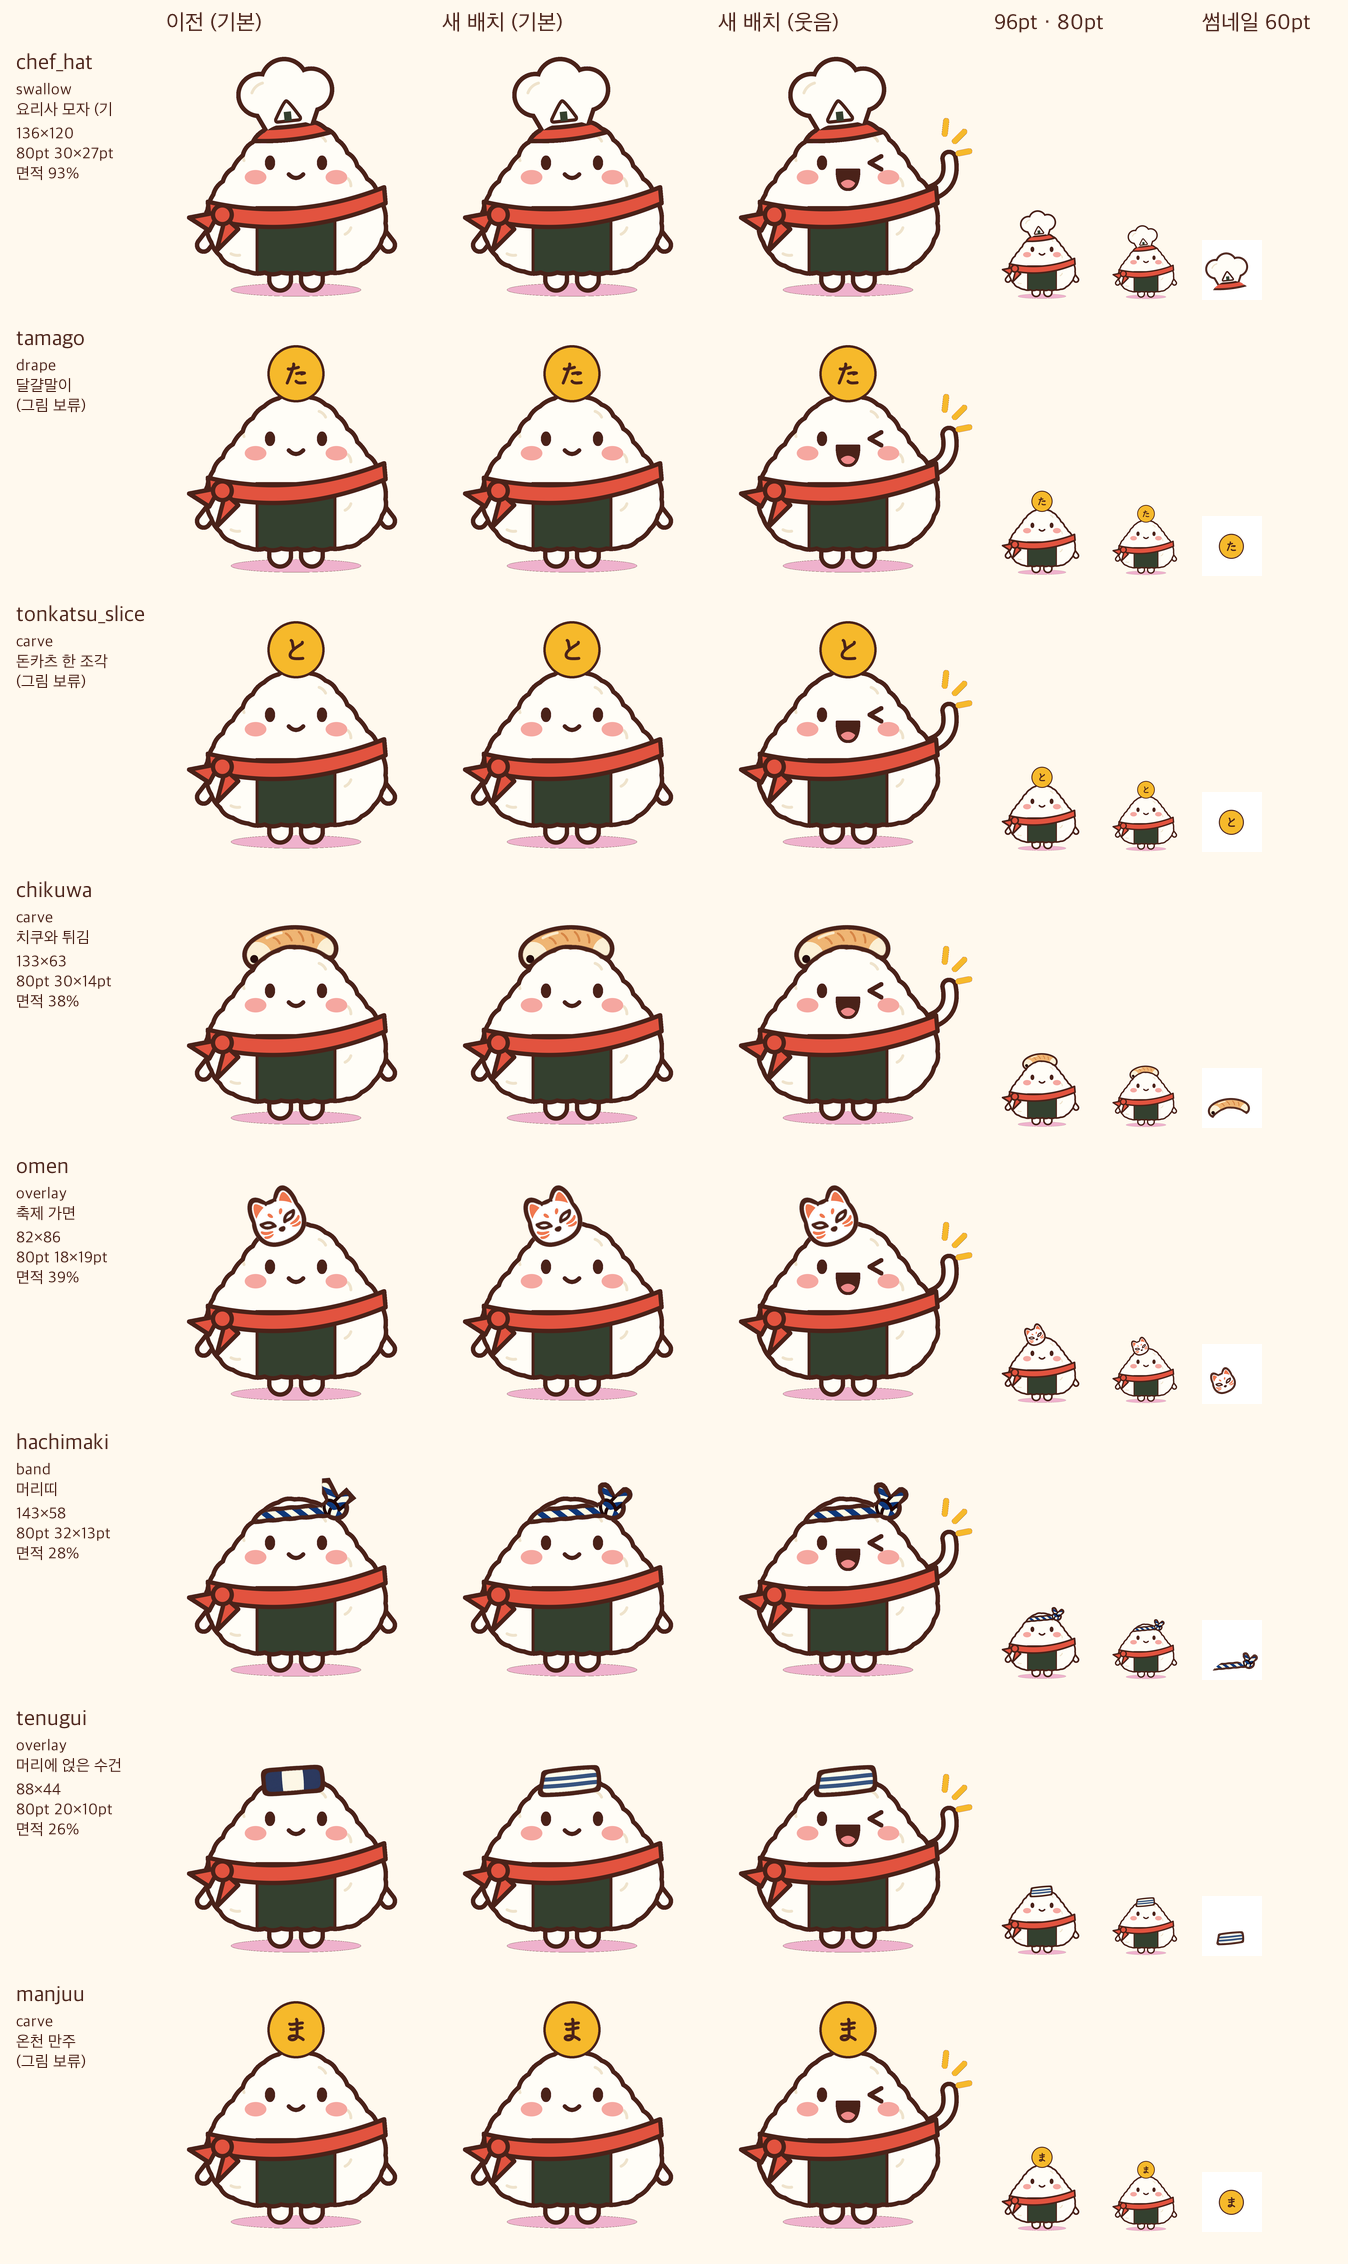
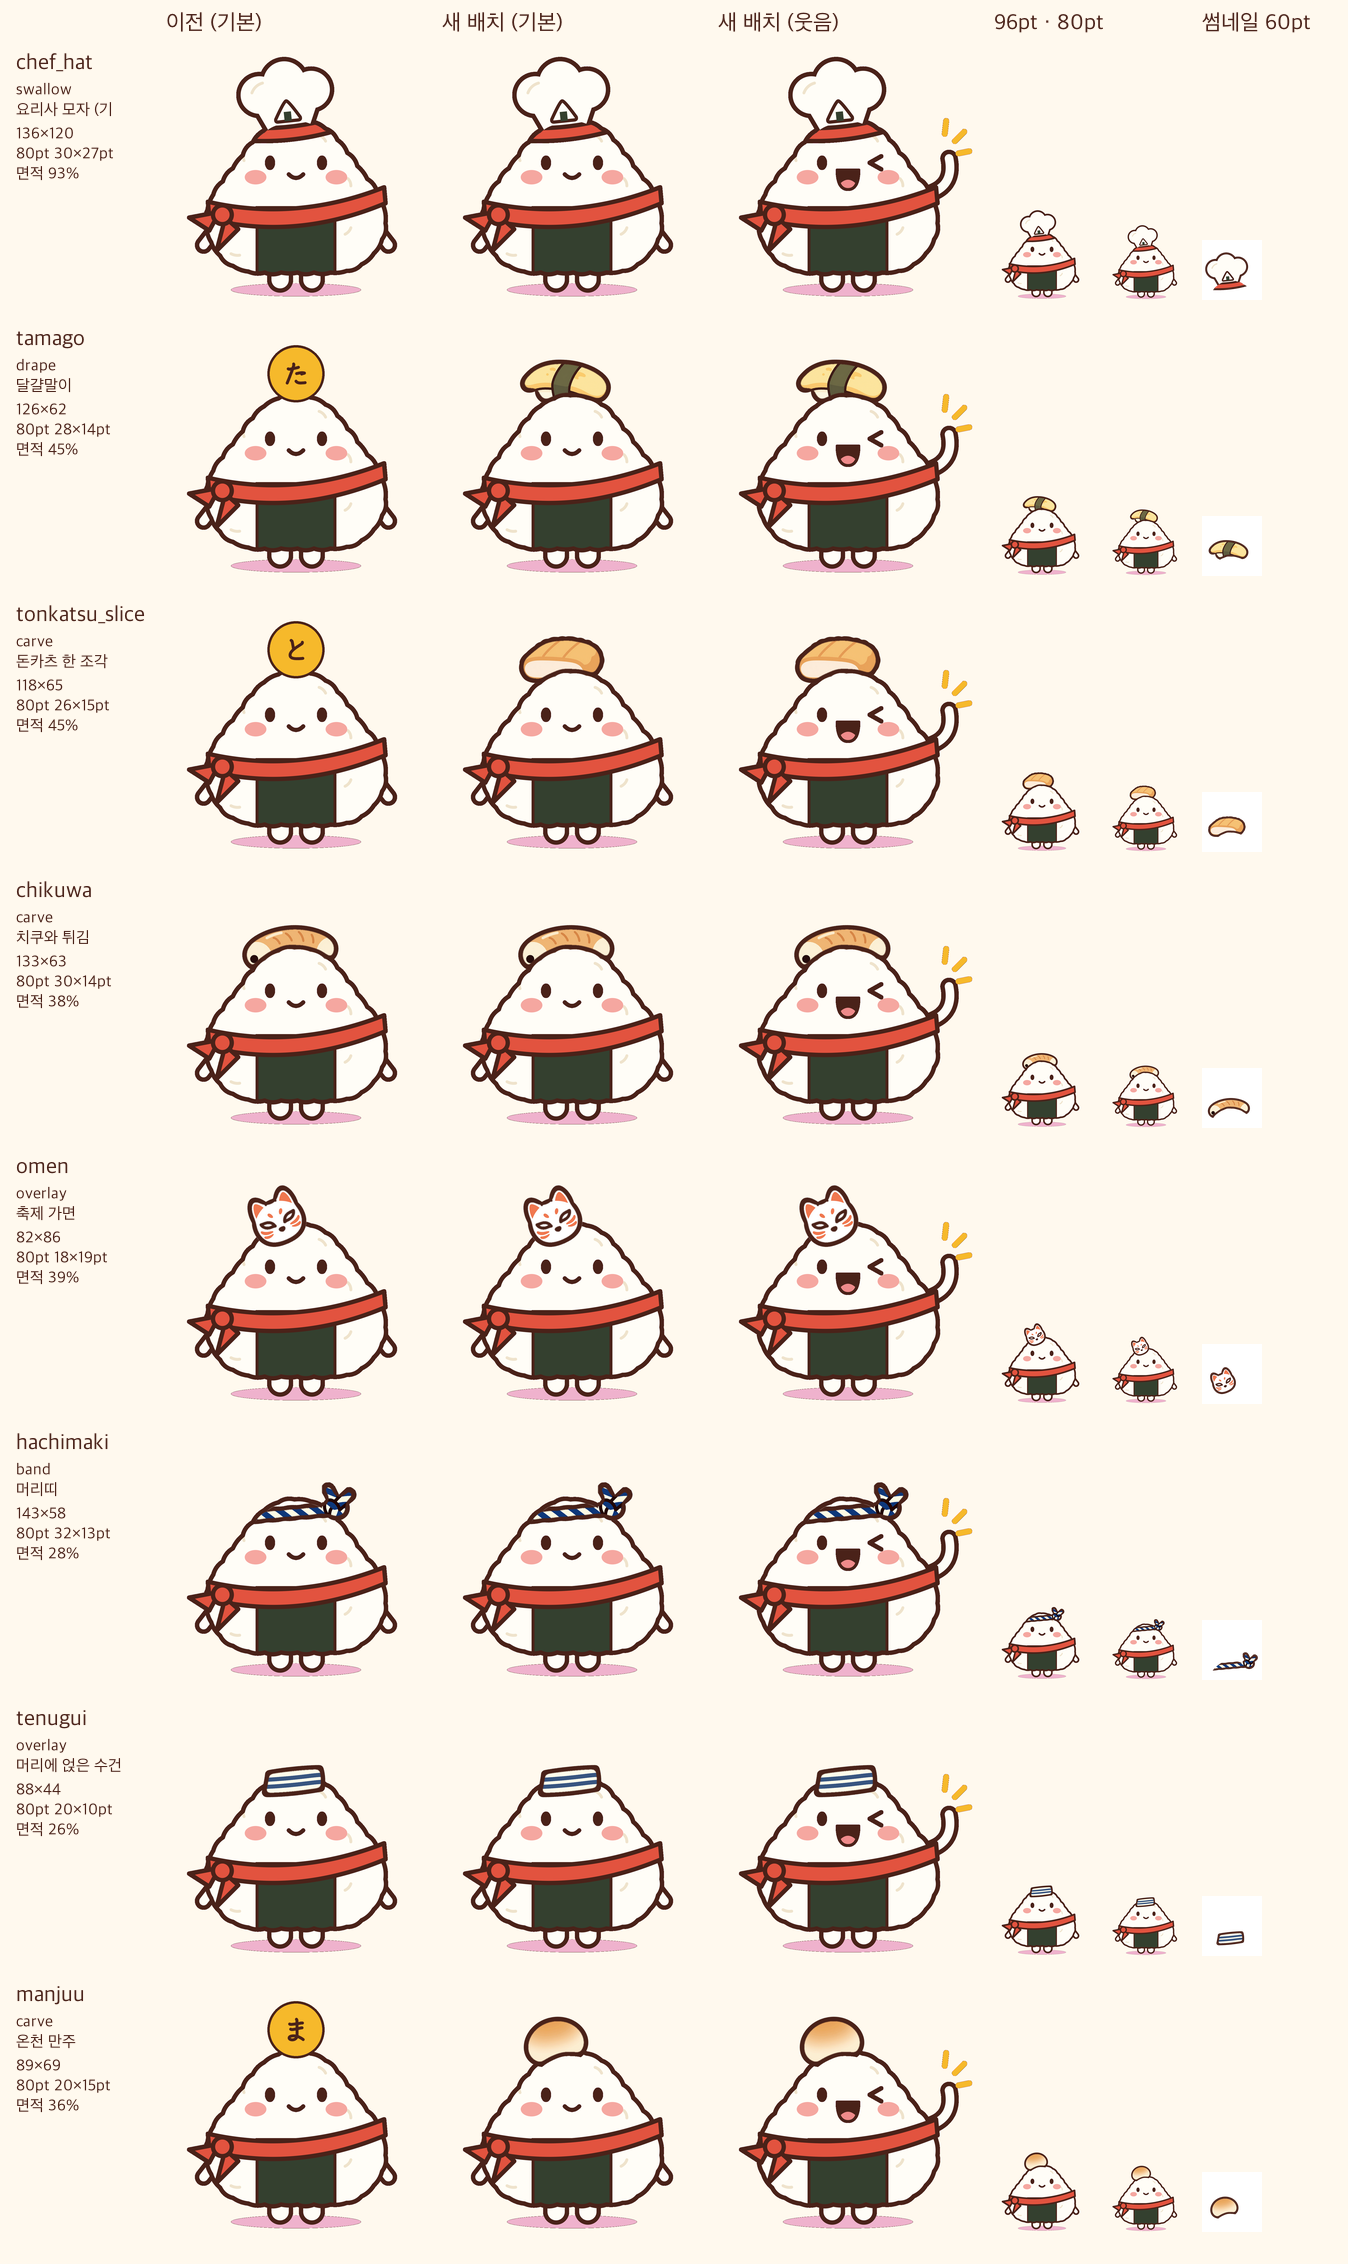
머리 음식 3개(tamago·tonkatsu_slice·manjuu)에 사용자가 고른 후보 5501을 넣음 (이슈 #1)
- source/{id}.png: remove_bg.py로 바탕 지움, manjuu는 --outline으로 흰 테 지움
- items.json: box·press 다시 정함(150x70/19, 140x70/20, 90x70/18), manjuu sizeClass round,
  candidate, waive(2026-11-21 사용자 결정): D_e 세 아이템, 닿는 폭 tamago
- place_item_art.py: 아이템별 waive 면제 표시(종료 코드에서 뺌, 다른 아이템 검사는 그대로)
- 에셋 Item-/ItemThumb- 3쌍, head-fit-compare.png 다시 만듦
- head-fit.md 3.4.3, 변경 기록, schedule.md 보류 작업 줄 정리

diff --git a/tools/place_item_art.py b/tools/place_item_art.py
@@ -20,6 +20,8 @@
 3. 검사해 출력한다. 머리: 2.1.3 범위 밖 픽셀, 기본 모자 대비 면적, 채움 색 수(근사), 떨어진 조각 수, 금지 색.
    속재료: 2.3.2 범위 밖 픽셀, 보이는 면적(모자 대비), 보이는 비율(뒤), 빨강 계열이면 보이는 부분 아래 끝 y, 채움 색 수,
    떨어진 조각 수, 금지 색. 기준을 넘으면 줄 끝에 "← 확인"을 붙이고 종료 코드 1을 돌려준다(에셋은 쓴다).
+   아이템의 `waive` {"reason": 사유, "checks": [검사 줄 머리말, ...]}에 든 검사는 넘어도 "← 면제: 사유"로 적고
+   종료 코드에 넣지 않는다(사용자가 정한 아이템만. 다른 아이템과 다른 검사는 그대로 돈다).
 
 필요: Pillow (tools/requirements.txt). 기본 모자 면적과 몸 마스크는 make_onigiri_svg.py의 그림을
 tools/svg_to_png.swift(macOS AppKit)로 그려 센다.
@@ -1239,11 +1241,18 @@ def main() -> int:
             checks = check_top(item, results[iid]) + checks
         elif item["slot"] == "filling":
             checks = check_filling(item, results[iid]) + checks
-        bad = [text for text, ok in checks if not ok]
+        waive = item.get("waive") or {}
+        waived = lambda text: any(text.startswith(k) for k in waive.get("checks", []))  # noqa: E731
+        bad = [text for text, ok in checks if not ok and not waived(text)]
         failed = failed or bool(bad)
         print(f"{iid:15} {item['slot']:10} " + ("검사만" if check_only else "→ " + ", ".join(ios_name(f) for f in results)))
         for text, ok in checks:
-            print(f"    {text}" + ("" if ok else "  ← 확인"))
+            if ok:
+                print(f"    {text}" + ("  (면제 표시가 있지만 통과)" if waived(text) else ""))
+            elif waived(text):
+                print(f"    {text}  ← 면제: {waive.get('reason', '사유 없음')}")
+            else:
+                print(f"    {text}  ← 확인")
     return 1 if failed else 0
 
 

diff --git a/docs/design/item-art/head-fit.md b/docs/design/item-art/head-fit.md
@@ -635,6 +635,23 @@ brief.md 2.5.1과 reward-flow.md 8.1의 7층 그대로다: 배경 → 속재료(
 - `items.json`의 프롬프트는 아이템마다 가장 나은 후보를 낸 문장으로 두었다: tamago·tonkatsu_slice는 2차, manjuu는 1차 문장.
 - 놓는 값(dx, 기울기, 상자, 눌러 놓기)과 30% 한도는 바꾸지 않았다. tonkatsu 5604에서 dx −6~−14, 기울기 −6°~−10°, `squash`를 시험해 본 것은 판정용이고 `items.json`에 넣지 않았다.
 
+#### 3.4.3 고른 후보 넣기 (2026-11-21, developer, 2026-11-21 사용자 결정(이슈 #1))
+
+사용자가 이슈 #1에서 후보 시트를 보고 세 아이템 모두 **5501**을 골랐다("타마고는 5501, 돈카츠는 5501 만쥬도 5501"). 세 후보는 자동 검사에 걸리지만 **이 세 아이템에 한해 사용자 결정으로 면제**한다. 규칙 문장(1.3, 1.4.3, 1.4.4, 5번)은 그대로이고, 다른 아이템의 검사도 그대로 돈다.
+
+- 그림: `source/candidates/{id}_5501.png`에서 `remove_bg.py`로 바탕을 지워 `source/{id}.png`로 넣었다. manjuu는 흰 스티커 테가 있어 `--outline`을 붙였다. 그림을 다시 그리거나 손으로 고치지 않았다. `items.json`의 `prompt`는 5501을 낸 문장(1차)으로, 고른 후보 번호는 `candidate`에 적었다.
+- 면제 방식: `items.json`의 아이템별 `waive` {`reason`, `checks`(검사 줄 머리말)}. 넣는 도구는 면제한 검사가 넘으면 "← 면제: 2026-11-21 사용자 결정(이슈 #1)"으로 적고 종료 코드에 넣지 않는다. tenugui의 겹침 70.5% 같은 다른 아이템 검사는 여전히 "← 확인"이다.
+- 3.4.1의 놓는 값(상자 144 × 60 / 124 × 60 / 76 × 60, 눌러 놓기 auto)으로는 세 그림 모두 바닥이 평평해서 30까지 눌려 깊이 깎였다. tamago는 밑의 밥이, tonkatsu는 앞쪽 단면이 거의 다 지워졌고, manjuu는 초승달 모자가 됐다(깎인 높이 47% · 46% · 37%, 보이는 크기도 하한 미달). 그래서 상자를 키우고 눌러 놓기를 수로 정해, 그림의 알아볼 부분(밥, 단면)이 남으면서 머리 위에 앉아 보이는 깊이를 눈으로 골랐다. dx·기울기는 3.4 그대로다.
+
+| id | 고른 후보 | 놓는 값 | 보이는 크기 · 80pt · 면적 | 통과한 검사 | 면제한 검사 (수치 / 기준) |
+|---|---|---|---|---|---|
+| `tamago` | 5501 (김 띠 두른 달걀 초밥, 밥이 보임) | drape, dx −6, −5°, **box 150 × 70, press 19**, contactSpan 1.0 | 126 × 62 (51%) · 28.0 × 13.8pt · 45% | 틈 5열, D_c 1, 깎인 높이 24%, 접선 차 0.2°, 얼굴 띠 122, 크기 하한, 범위·상한·색·덩어리 | **D_e 12·10 / 각 20~40**, **닿는 폭 66% / 75% 이상** |
+| `tonkatsu_slice` | 5501 (바닥이 평평한 덩이, 앞쪽 옅은 단면) | carve, dx −10, −8°, **box 140 × 70, press 20**, contactSpan 0.8 | 118 × 65 (48%) · 26.3 × 14.5pt · 45% | 틈 6열, D_c 1, 닿는 폭 73%, 깎인 높이 22%, 접선 차 0°, 얼굴 띠 126, 크기 하한 | **D_e 16·9 평균 12.5 / 평균 21 이상** |
+| `manjuu` | 5501 (둥근 빵, 위가 갈색 그러데이션, 흰 테 지움) | carve e 4, dx −16, −12°, **box 90 × 70, press 18**, contactSpan 0.8, **`sizeClass` "round"** | 89 × 69 (36%) · 19.9 × 15.4pt · 36% | 틈 4열, D_c 7, 닿는 폭 82%, 깎인 높이 17%, 접선 차 0.8°, 얼굴 띠 131, 크기 하한(둥근 것), 채움 색 3 | **D_e 20·4 평균 12 / 평균 21 이상**(폭 89라 80 초과 기준) |
+
+- manjuu는 1.9.2의 "폭 80 이하로 높이만 키움"을 따르면(90 → 80) 보이는 면적이 28% 하한에 걸리고 오른쪽 D_e가 3(각 4 이상)이라, 폭 89로 키워 D_e만 면제로 두었다. `sizeClass` "round"는 1.9.3의 `carve` 둥근 것 하한을 쓰게 하려고 더했다(전에는 긴 것 하한으로 쟀다).
+- 남은 위험: 세 그림 모두 바닥이 평평해서 가운데만 머리에 앉고 양 끝은 머리와 떨어진다(D_e가 낮은 까닭). tamago의 오른쪽 끝은 머리 오른쪽 어깨 위로 뜬 쐐기가 있다. 비교 시트·시뮬레이터 스크린샷 `build/head-fit-shots/r5/`(git 밖).
+
 ### 3.5 `tenugui` 머리에 얹은 수건: 시점 불일치와 모양
 
 지금 상태: 위에서 비스듬히 본 두께 있는 판(원근)이고, 마름모 모서리 한 점으로 꼭짓점에 닿는다(위험 C, G).
@@ -952,3 +969,4 @@ brief.md 2.5.1과 reward-flow.md 8.1의 7층 그대로다: 배경 → 속재료(
 - 2026-11-18 (developer): 3차 수정 구현. 3번에 "3차 수정 구현 값" 표와 메모, 6.6에 진행 상황. tenugui는 새 그림 7831(90 × 40, center (146, 118), −6°, squash 없음, 겹침 70.5%만 걸림). はちまき는 6장 다시 그림이 모두 떨어져 7753에 꼬리 반원 자르기(22·18)만 한 임시. 7753의 윗 꼬리가 왼쪽으로 기울어 있어(2차 메모의 20°는 방향이 반대) 3차 각도 범위를 벗어나고, `tailRotate`로는 꼬리가 뭉쳐 쓰지 않았다. `remove_bg.py --outline`(흰 스티커 테 지우기)을 더했다.
 - 2026-11-19 (developer): 앱 아이콘을 새 요리사 모자 `hat()`으로 바꿈(이슈 #5). `hat_icon()` 삭제, 아이콘 배치 3.0배·위아래 여백 약 56px. 3.1 끝의 아이콘 줄 갱신.
 - 2026-11-19 (developer): 3.4.2 추가. tamago·tonkatsu_slice·manjuu를 아이템당 8장 더 뽑았으나 통과 없음(앱은 임시 동그라미 그대로). 프롬프트를 `items.json`에 반영.
+- 2026-11-21 (developer): 3.4.3 추가. 2026-11-21 사용자 결정(이슈 #1)으로 tamago·tonkatsu_slice·manjuu에 후보 5501을 넣었다(앱의 임시 동그라미가 그림으로 바뀜). 상자·눌러 놓기를 다시 정하고, 걸리는 D_e(세 아이템)와 닿는 폭(tamago)을 `items.json`의 `waive`로 면제했다. 넣는 도구에 아이템별 면제 표시를 더했다. 비교 시트를 다시 만들었다.

diff --git a/docs/schedule.md b/docs/schedule.md
@@ -8,5 +8,4 @@ PM(메인 세션)이 관리한다. 기획 결정과 미정 항목은 [PLAN.md](.
 
 | 올린 날 | 작업 | 미룬 이유 | 다시 할 조건 | 참고 |
 |---|---|---|---|---|
-| 2026-11-16 | 꾸미기 머리 토핑 그림 3장: tamago, tonkatsu_slice, manjuu. 앱에는 임시 동그라미가 들어가 있다. (같은 줄의 chikuwa, ebiten, shake, umeboshi는 2026-11-17에 끝남) | 2026-11-17에 아이템마다 3장, 2026-11-19(이슈 #1로 제한을 풀고)에 8장씩 더 뽑았으나 통과가 없다. tamago는 니기리 초밥(밥 포함)이나 공을 함께 그렸고, tonkatsu는 평평한 빵 모양이거나 머리보다 깊은 말굽 아치(가운데가 뜸), manjuu는 바닥이 평평한 둥근 빵(깎인 높이 34~40%)이거나 공을 그렸다. 문장 실험 기록은 head-fit.md 3.4.2 | 문장만으로는 더 나아질 근거가 약하다. 다음 중 하나가 생길 때: 사용자가 아치 형태 손그림·참고 그림을 줄 때(이미지 참고를 받는 작업 흐름이 필요), 또는 사용자가 다른 방법(예: 30% 한도나 접시 없이 깎아 얹기 규칙 재검토, 공을 erase로 지운 후보 쓰기)을 정할 때 | 프롬프트: items.json(tamago·tonkatsu_slice 2차, manjuu 1차 문장). 가장 나은 후보: source/candidates/tamago_5604, tonkatsu_slice_5604, manjuu_5504(git 밖). 모음: build/head-fit-shots/r4/candidates-r4.png. 놓는 값: head-fit.md 3.4 |
 | 2026-11-18 | はちまき 다시 그리기(3.2.2: 열린 곧은 줄, 줄보다 1.3~1.8배 굵은 둥근 매듭, 매듭보다 짧은 두 꼬리가 오른쪽 위·오른쪽). 지금 그림은 임시: 후보 7753의 꼬리를 반원 자르기(`tailTrim` 윗 22·아랫 18)로 손질. 자동 검사는 모두 통과하지만 80pt에서 두 꼬리가 V(토끼 귀)로 읽히고, 윗 꼬리가 왼쪽으로 29° 기울어 3차 각도 범위(윗 15~40°)를 벗어난다 | 2026-11-18 3.2.2 프롬프트로 6장(7861~7863, 앞에 "It is an open strip, not a ring."을 더한 7871~7873): 5장이 닫힌 고리, 1장은 매듭이 가늘고 꼬리 하나가 아래로. `tailRotate`로 윗 꼬리를 돌리면 오른쪽 꼬리와 뭉쳤다 | 사용자가 지금 임시를 받아들일지 정할 때. 다시 뽑으면 아이템당 횟수 제한(6장)을 풀거나, "headband" 대신 "rope"만 쓰는 등 고리를 부르는 낱말을 빼는 새 처방(designer)이 필요하다 | head-fit.md 3번 "3차 수정 구현 값", 3.2.2. 후보: source/candidates/hachimaki_7861~7863, 7871~7873(git 밖) |
